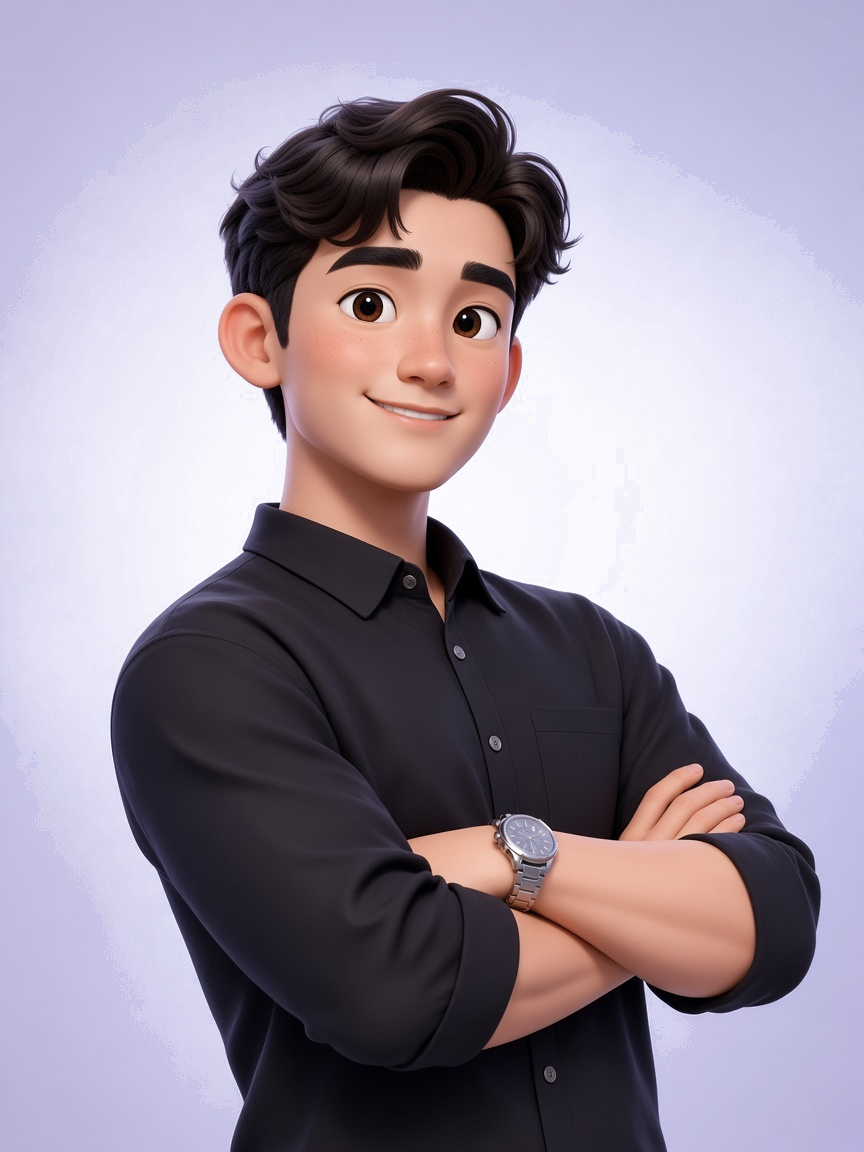
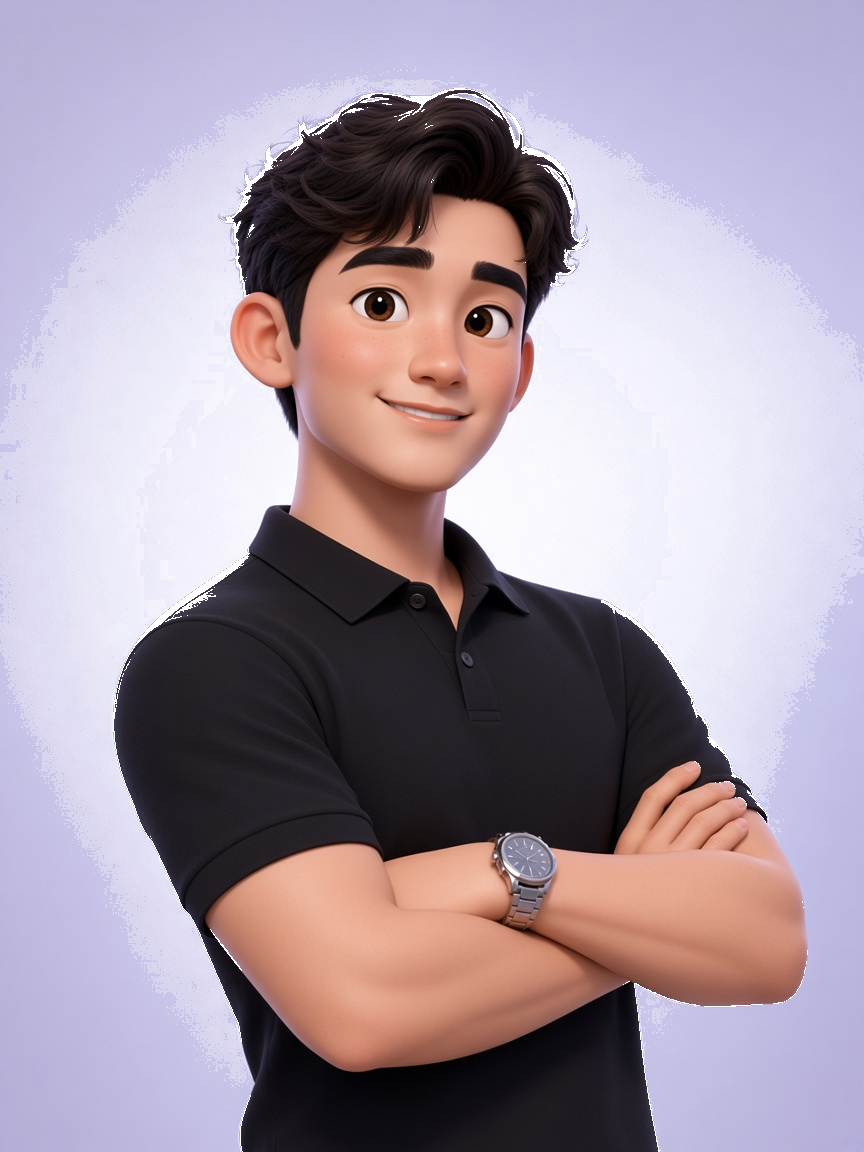
Fix founder guide stacking with calm, explain, and angry HR poses.

diff --git a/app/office/components/office-founder-guide.tsx b/app/office/components/office-founder-guide.tsx
@@ -1,7 +1,22 @@
 "use client";
 
-import { motion, useReducedMotion } from "framer-motion";
+import { AnimatePresence, motion, useReducedMotion } from "framer-motion";
 import type { OfficeAlert } from "@/lib/office/types";
+
+type Pose = "calm" | "explain" | "angry";
+
+function poseFor(alert: OfficeAlert | null): Pose {
+  if (!alert) return "explain";
+  if (alert.tone === "warn") return "angry";
+  if (alert.tone === "ok") return "calm";
+  return "explain";
+}
+
+const POSE_SRC: Record<Pose, string> = {
+  calm: "/office-founder-calm.png",
+  explain: "/office-founder-explain.png",
+  angry: "/office-founder-angry.png",
+};
 
 export default function OfficeFounderGuide({
   greetName,
@@ -21,30 +36,29 @@ export default function OfficeFounderGuide({
   const reduce = useReducedMotion();
   const warn = alert?.tone === "warn";
   const ok = alert?.tone === "ok";
+  const pose = poseFor(alert);
 
   return (
-    <div className={["pointer-events-none absolute inset-y-0 left-0 z-20", compact ? "w-[48%]" : "w-[36%] max-w-[320px]"].join(" ")}>
-      {/* Bubble ikut gerak kecil saat jelasin */}
+    <div
+      className={[
+        "pointer-events-none absolute bottom-0 left-0 z-20 flex flex-col justify-end overflow-visible",
+        compact ? "h-full w-[46%] max-w-[11.5rem]" : "h-full w-[30%] max-w-[270px]",
+      ].join(" ")}
+    >
+      {/* Bubble di atas kepala — tidak nempel ke kantor */}
       <motion.button
         type="button"
         onClick={onOpen}
-        className={["pointer-events-auto absolute z-30 text-left", compact ? "top-3 left-2 w-[92%] max-w-[12rem]" : "top-[7%] left-[6%] w-[210px]"].join(" ")}
-        animate={
-          reduce
-            ? undefined
-            : {
-                y: [0, -4, 0, -2, 0],
-                rotate: [0, -1.2, 0.8, 0],
-              }
-        }
-        transition={{ duration: 4.8, repeat: Infinity, ease: "easeInOut" }}
-        key={alert?.id || "hello"}
-        initial={reduce ? false : { scale: 0.92, opacity: 0.7 }}
-        whileInView={reduce ? undefined : { scale: 1, opacity: 1 }}
+        className={[
+          "pointer-events-auto relative z-30 mb-1 ml-2 text-left",
+          compact ? "mr-1 max-w-[10.5rem]" : "ml-3 max-w-[13.5rem]",
+        ].join(" ")}
+        animate={reduce ? undefined : { y: [0, -3, 0] }}
+        transition={{ duration: 3.6, repeat: Infinity, ease: "easeInOut" }}
       >
-        <motion.div
+        <div
           className={[
-            "rounded-2xl px-3 py-2.5 text-white shadow-[0_12px_28px_rgba(91,33,182,0.4)]",
+            "rounded-2xl px-3 py-2.5 text-white shadow-[0_10px_24px_rgba(40,20,80,0.28)]",
             warn
               ? "bg-gradient-to-br from-[#F59E0B] to-[#DC2626]"
               : ok
@@ -52,8 +66,6 @@ export default function OfficeFounderGuide({
                 : "bg-gradient-to-br from-[#8B5CF6] to-[#6D28D9]",
             compact ? "px-2.5 py-2" : "",
           ].join(" ")}
-          animate={reduce ? undefined : { scale: [1, 1.03, 1] }}
-          transition={{ duration: 0.55 }}
         >
           <p className={["font-semibold tracking-wide text-white/80 uppercase", compact ? "text-[9px]" : "text-[10px]"].join(" ")}>
             {alert ? "Notif HR" : "Henima"}
@@ -65,7 +77,7 @@ export default function OfficeFounderGuide({
           <p className={["mt-0.5 line-clamp-3 leading-snug text-white/90", compact ? "text-[9px]" : "text-[10px]"].join(" ")}>
             {alert?.body || "Henima Agent siap membantu bisnis Anda."}
           </p>
-        </motion.div>
+        </div>
         <div
           className={[
             "ml-5 h-0 w-0 border-t-8 border-r-8 border-t-transparent",
@@ -74,46 +86,42 @@ export default function OfficeFounderGuide({
         />
       </motion.button>
 
-      {/* Orang besar: idle + gesture jelasin */}
-      <motion.button
+      {/* Satu layer orang saja — pose ganti sesuai emosi HR, tanpa ghost/stack */}
+      <button
         type="button"
         aria-label="Buka notifikasi HR"
         onClick={onOpen}
-        className="pointer-events-auto absolute inset-x-0 bottom-0 flex h-[88%] items-end justify-start overflow-visible"
-        animate={
-          reduce
-            ? undefined
-            : {
-                y: [0, -10, 0, -6, 0],
-                rotate: [0, -2.2, 1.6, -1, 0],
-                x: [0, 4, -2, 3, 0],
-              }
-        }
-        transition={{ duration: 5.6, repeat: Infinity, ease: "easeInOut" }}
+        className="pointer-events-auto relative mt-auto flex h-[68%] w-full items-end justify-start overflow-hidden pl-1"
       >
-        <motion.img
-          src="/office-founder-guide.png"
-          alt=""
-          draggable={false}
-          className={[
-            "origin-bottom select-none object-contain drop-shadow-[0_18px_40px_rgba(40,20,80,0.28)]",
-            compact ? "h-[92%] max-h-[280px] w-auto" : "h-full w-auto max-w-none",
-          ].join(" ")}
-          animate={
-            reduce
-              ? undefined
-              : warn
-                ? { scale: [1, 1.04, 1], rotate: [0, 2.5, -2, 0] }
-                : { scale: [1, 1.02, 1] }
-          }
-          transition={
-            warn
-              ? { duration: 0.9, repeat: Infinity, ease: "easeInOut" }
-              : { duration: 2.4, repeat: Infinity, ease: "easeInOut" }
-          }
-          key={alert?.id || "guide"}
-        />
-      </motion.button>
+        <AnimatePresence mode="wait" initial={false}>
+          <motion.img
+            key={pose}
+            src={POSE_SRC[pose]}
+            alt=""
+            draggable={false}
+            className={[
+              "origin-bottom select-none object-contain object-bottom drop-shadow-[0_16px_28px_rgba(40,20,80,0.22)]",
+              compact ? "h-[100%] max-h-[240px] w-auto" : "h-full w-auto max-w-[100%]",
+            ].join(" ")}
+            initial={reduce ? false : { opacity: 0, y: 12, scale: 0.98 }}
+            animate={
+              reduce
+                ? { opacity: 1, y: 0, scale: 1 }
+                : warn
+                  ? { opacity: 1, y: [0, -5, 0, -3, 0], rotate: [0, -1.4, 1.2, 0], scale: 1 }
+                  : pose === "explain"
+                    ? { opacity: 1, y: [0, -4, 0], rotate: [0, 0.8, 0], scale: 1 }
+                    : { opacity: 1, y: [0, -3, 0], scale: 1 }
+            }
+            exit={reduce ? undefined : { opacity: 0, y: 8, scale: 0.98 }}
+            transition={
+              warn
+                ? { duration: 1.1, repeat: Infinity, ease: "easeInOut", opacity: { duration: 0.25 } }
+                : { duration: 3.8, repeat: Infinity, ease: "easeInOut", opacity: { duration: 0.25 }, scale: { duration: 0.25 } }
+            }
+          />
+        </AnimatePresence>
+      </button>
     </div>
   );
 }
